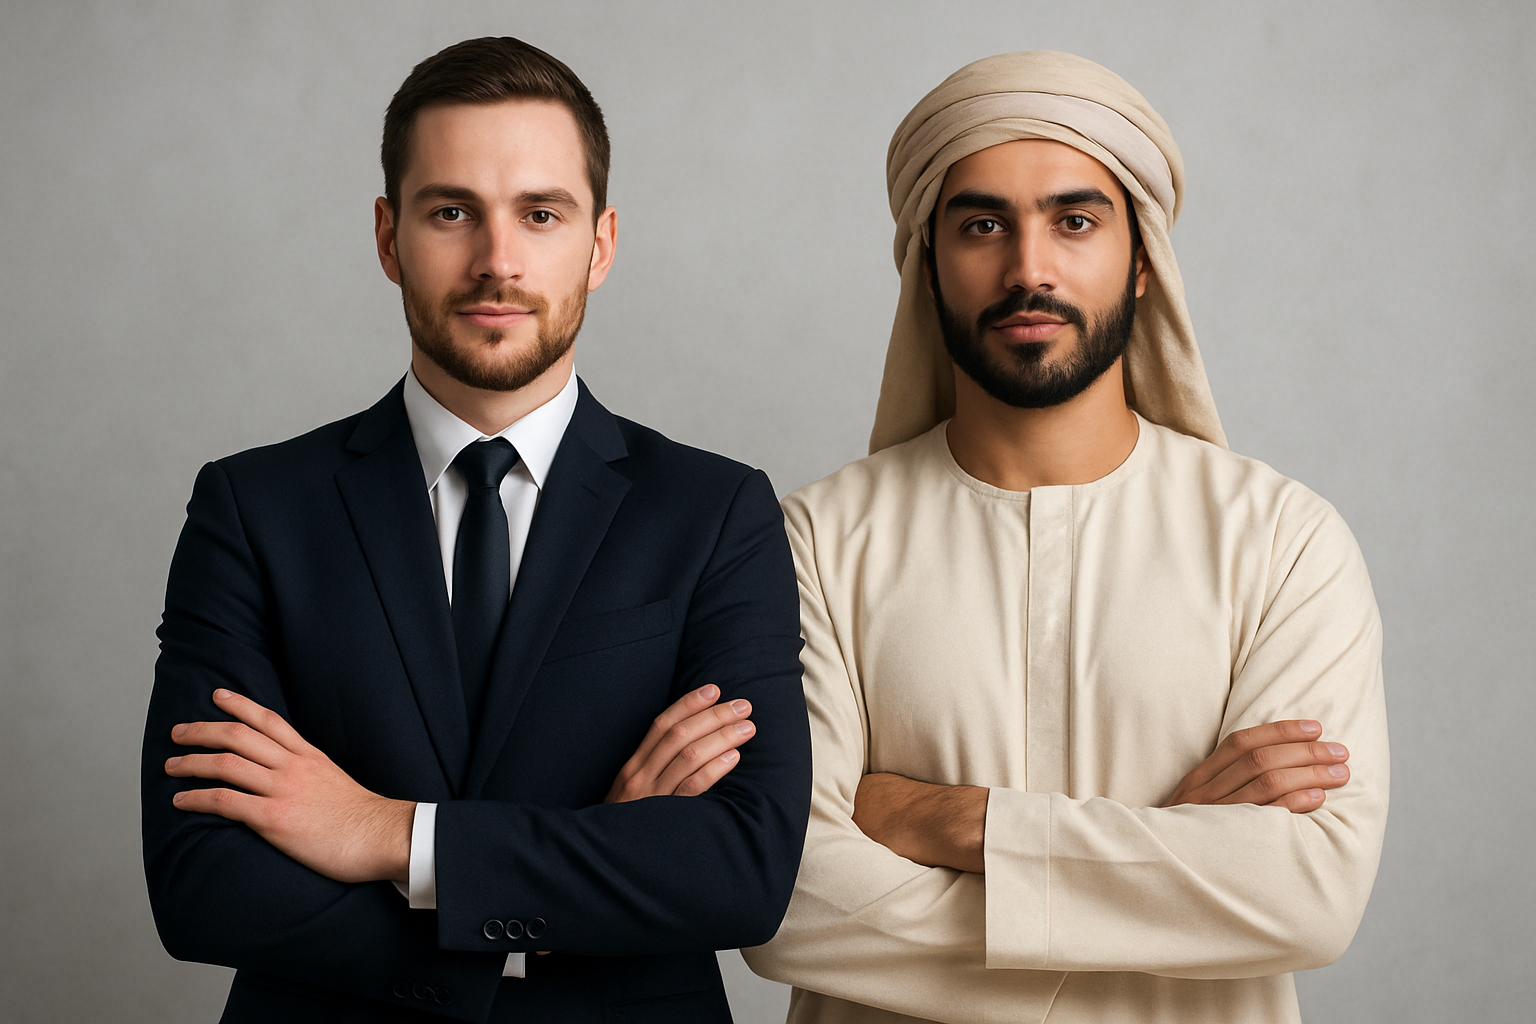
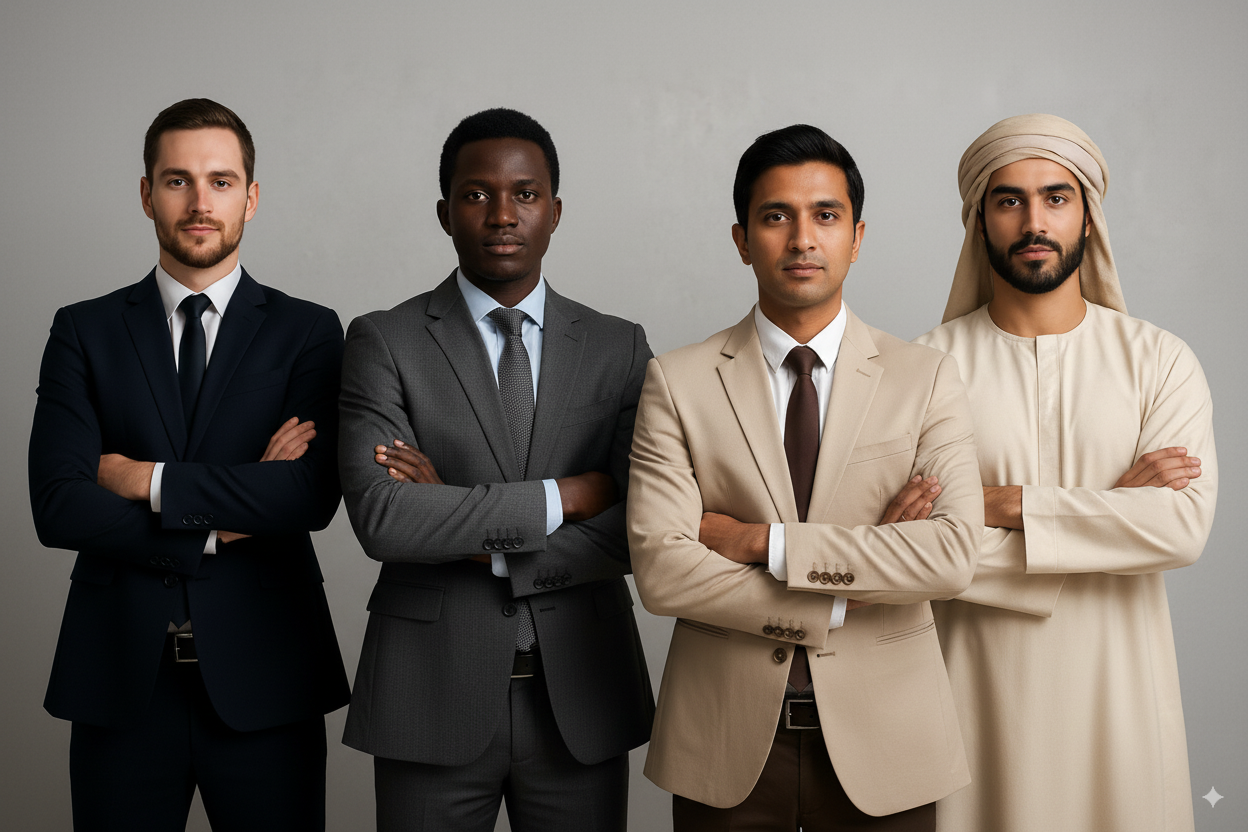
all done except hero image responsive

diff --git a/src/components/Services.tsx b/src/components/Services.tsx
@@ -16,7 +16,7 @@ const Services = () => {
     {
       icon: <GraduationCap className="h-8 w-8 text-primary" />,
       title: "Educational Certificates",
-      description: "Degree, Diploma, Transcripts Apostille, GAD, HRD, MEA Attestation for UAE, Saudi Arabia, Qatar, and other GCC countries.",
+      description: "Degree, Diploma, Transcripts Attestation Apostille for UAE, Kuwait visa stamping, Saudi Arabia, Qatar, and other GCC countries .",
       features: ["University Degrees", "School Certificates", "Transcripts", "work experience letters"]
     },
     {
@@ -39,7 +39,7 @@ const Services = () => {
     },
     {
       icon: <Building className="h-8 w-8 text-primary" />,
-      title: "Embassy Attestation",
+      title: "Embassy Apostille and Attestation",
       description: "Complete embassy attestation services for all GCC and international destinations.",
       features: ["UAE Embassy", "Saudi Embassy", "Qatar Embassy", "Other Embassies"]
     },
@@ -103,7 +103,7 @@ const Services = () => {
               { step: "1", title: "Submit Documents", desc: "Drop off your documents at our office or schedule pickup" },
               { step: "2", title: "Verification", desc: "We verify and prepare your documents for attestation" },
               { step: "3", title: "Processing", desc: "Documents processed through official government channels" },
-              { step: "4", title: "Delivery", desc: "Receive your attested documents with tracking" }
+              { step: "4", title: "Delivery", desc: "Receive your attested documents" }
             ].map((item, index) => (
               <div key={index} className="text-center">
                 <div className="mx-auto mb-4 w-12 h-12 bg-gradient-hero rounded-full flex items-center justify-center text-white font-bold text-lg">

diff --git a/src/components/Footer.tsx b/src/components/Footer.tsx
@@ -22,8 +22,8 @@ const Footer = () => {
             <div className="flex items-center gap-3 mb-6">
               <div className="text-gold font-arabic text-2xl font-bold"></div>
               <div>
-                <h3 className="text-xl font-bold">Ummah Attestation</h3>
-                <p className="text-white/80 text-sm">Trusted Document Services</p>
+                <h3 className="text-xl font-bold">Ummah Attestation Works</h3>
+                <p className="text-white/80 text-sm">Trusted Apostille services for all Embassies <br></br>(UAE, Saudi, Qatar, Kuwait)</p>
               </div>
             </div>
             <p className="text-white/80 mb-6">
@@ -58,7 +58,7 @@ const Footer = () => {
               <li><a href="#" className="text-white/80 hover:text-gold transition-colors">Personal Documents</a></li>
               <li><a href="#" className="text-white/80 hover:text-gold transition-colors">Commercial Documents</a></li>
               <li><a href="#" className="text-white/80 hover:text-gold transition-colors">Medical Certificates</a></li>
-              <li><a href="#" className="text-white/80 hover:text-gold transition-colors">Embassy Attestation</a></li>
+              <li><a href="#" className="text-white/80 hover:text-gold transition-colors">Embassy Apostille and Attestation</a></li>
               <li><a href="#" className="text-white/80 hover:text-gold transition-colors">Family Visa Documents</a></li>
             </ul>
           </div>

diff --git a/src/components/Hero.tsx b/src/components/Hero.tsx
@@ -4,7 +4,8 @@ import { Clock, Shield, Star, Award } from "lucide-react";
 import heroBg from "@/assets/hero-bg.jpg";
 import herobg from "@/assets/hero.png";
 // import heroBg from "@/assets/mob-hero.png";
-import heroBgMobile from "@/assets/tw1.png";
+// import heroBgMobile from "@/assets/tw1.png";
+import heroBgMobile from "@/assets/hero.png";
 
 const Hero = () => {
   return (

diff --git a/vite.config.ts b/vite.config.ts
@@ -7,6 +7,7 @@ import { componentTagger } from "lovable-tagger";
 export default defineConfig(({ mode }) => ({
   server: {
     host: "::",
+    allowedHosts: ["iii-payday-structure-culture.trycloudflare.com"],
     port: 8080,
   },
   plugins: [
